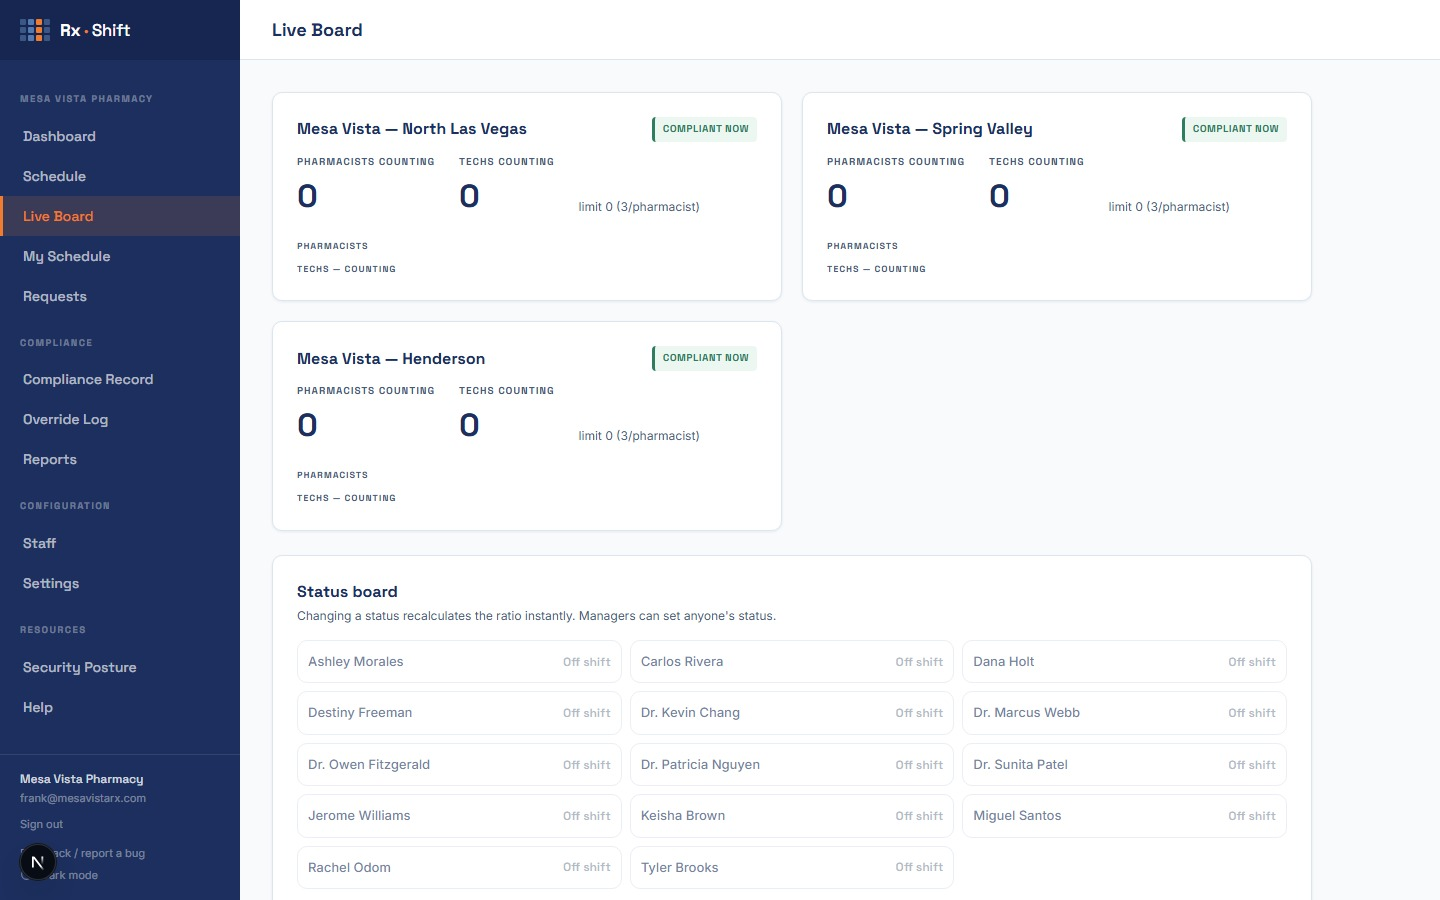
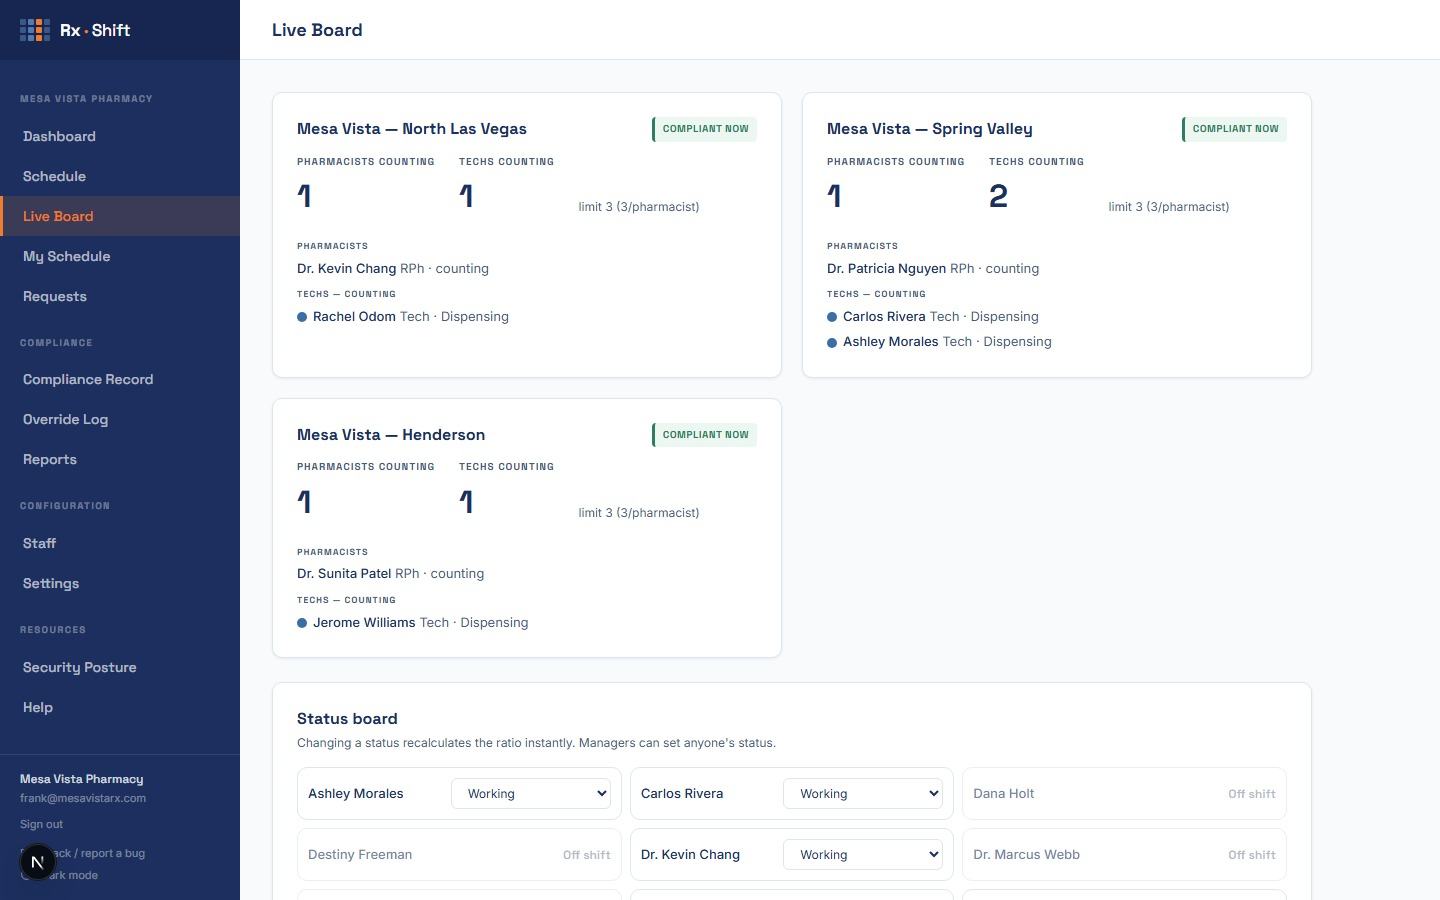
Marketing: refreshed live-board screenshot + GIF (mid-day capture)

diff --git a/CHANGELOG.md b/CHANGELOG.md
@@ -47,10 +47,10 @@ migrations.
   cards, live-board band, Nevada all stack to one column on phones).
 
 ### Open
-- The live-board **GIF isn't generated yet** — it needs a counting tech actually on shift at
-  capture time (demo staff work ~9a–7p PT). Until then the band shows the static board image. Re-run
-  `npx tsx scripts/capture-screenshots.ts` mid-day PT to produce it (a best-effort local timer is
-  set for ~9:03 AM PT June 17). The other four screenshots are live now.
+- **Live-board GIF — done.** Generated June 17, 2026 (~9:03 AM PT) by the scheduled re-capture (14
+  frames, Carlos Rivera on shift at Spring Valley) and committed; the live-board band now shows the
+  animated board instead of the static fallback. **Committed, pending push** (Jamison approves
+  pushes). The schedule + board jpgs also refreshed to the current week.
 
 ---
 
